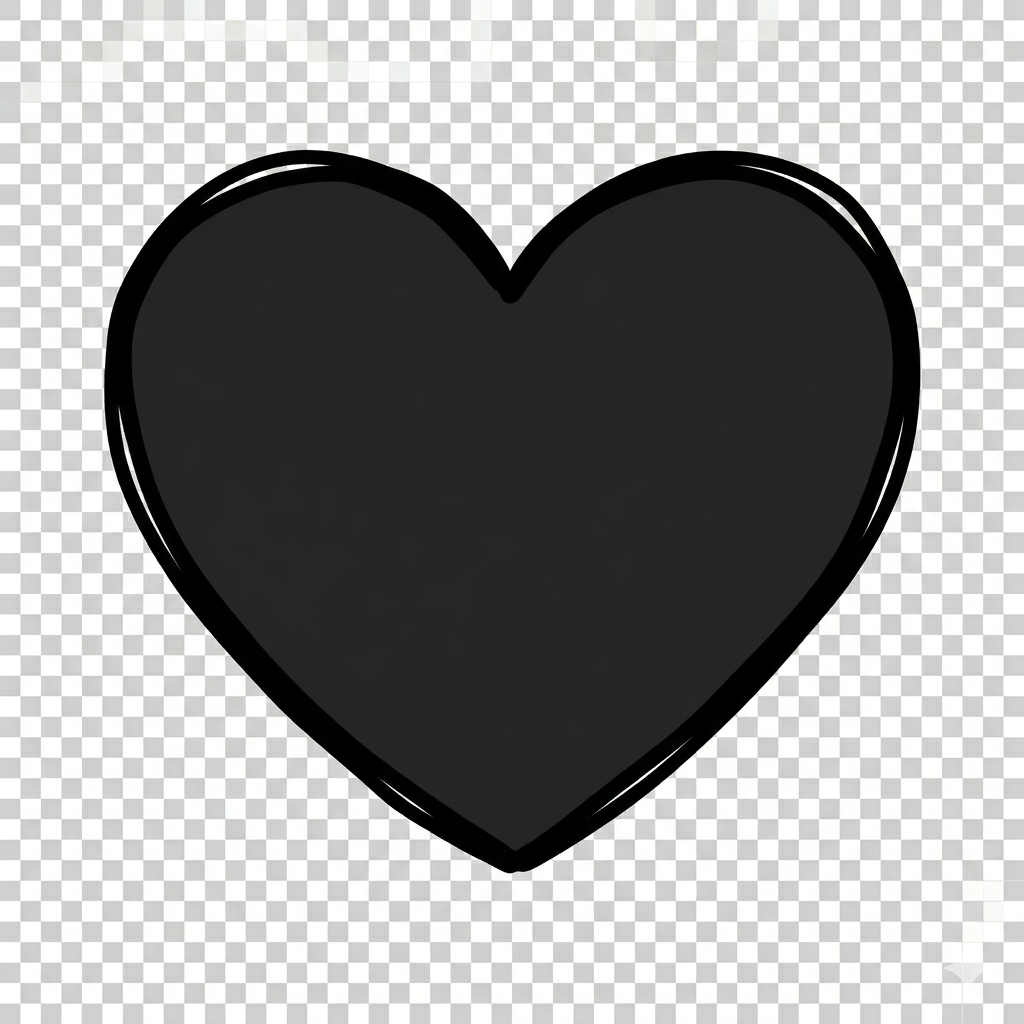
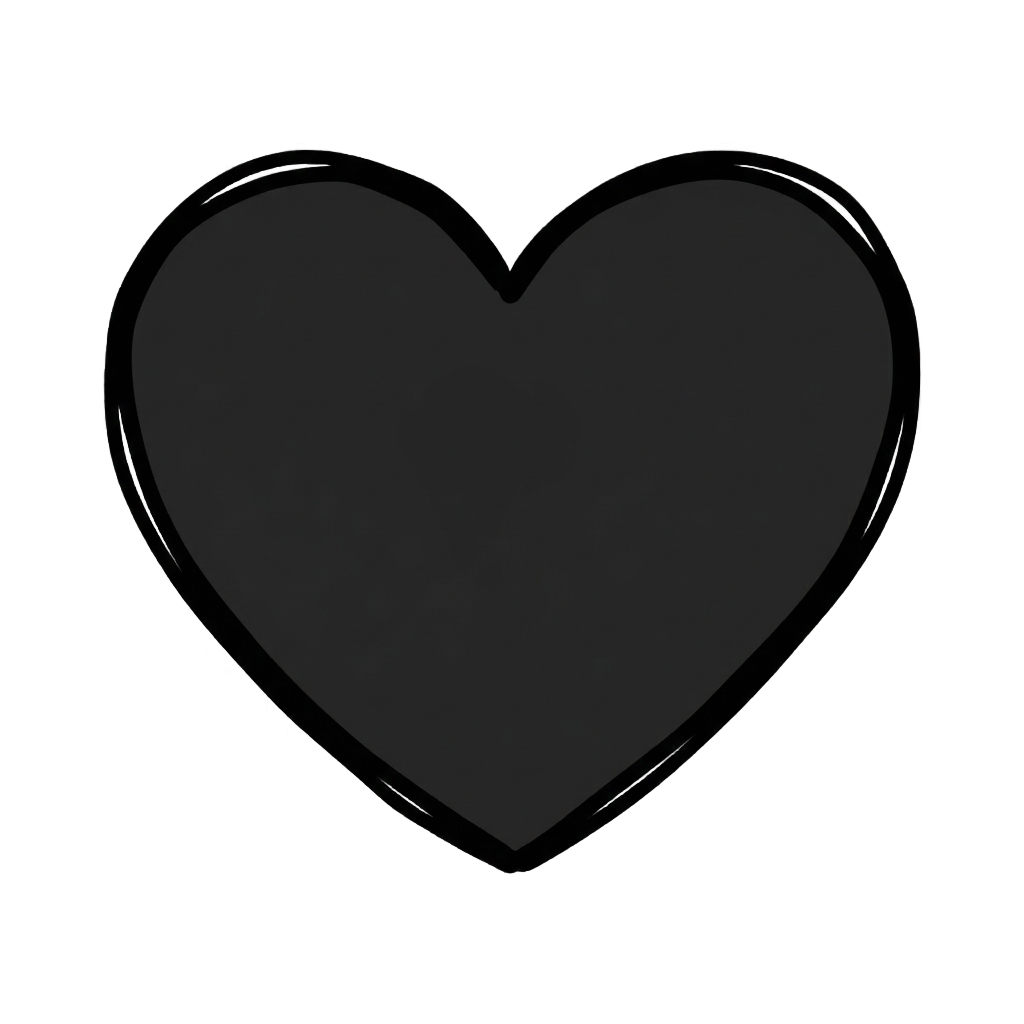
Update: Realigning the assets, Assets: Removing bg

Changed region(s): [[0.0, 0.0, 1.0, 1.0]]

diff --git a/HangmanProject/gui.py b/HangmanProject/gui.py
@@ -107,7 +107,7 @@ class SpriteLoader:
 
     # ── Keyboard images ───────────────────────────────────────────────────────
     def _load_keyboard(self):
-        kb_w = CW - 20
+        kb_w = CW - 200
         for key, fname in [("kb_normal", "keyboard_normal.png"),
                             ("kb_used",   "keyboard_key_used.png")]:
             path = os.path.join(self.assets_dir, fname)
@@ -116,7 +116,13 @@ class SpriteLoader:
                 ow, oh = img.size
                 ratio  = kb_w / ow
                 kb_h   = int(oh * ratio)
-                self.buttons[key] = img.resize((kb_w, kb_h), Image.LANCZOS)
+                img    = img.resize((kb_w, kb_h), Image.LANCZOS)
+
+                # ── Fix: composite onto transparent base to kill checkerboard ──
+                base = Image.new("RGBA", (kb_w, kb_h), (0, 0, 0, 0))
+                img  = Image.alpha_composite(base, img)
+
+                self.buttons[key] = img
             except Exception:
                 self.buttons[key] = None
 
@@ -201,13 +207,13 @@ class HangmanApp:
             canvas.create_image(400, 110, anchor=tk.CENTER, image=title)
             self._photo_refs.append(title)
         else:
-            canvas.create_text(400, 110, text="REGULAR HANGMAN",
+            canvas.create_text(400, 110, text="REGULAR GAME",
                                font=self.title_font, fill=BASE_TEXT)
 
         btn_data = [
             ("New_Game",          300, lambda: self._start_game(self.difficulty)),
             ("Change_Difficulty", 390, self._show_difficulty_screen),
-            ("Exit_Game",         500, self.master.quit),
+            ("Exit_Game",         490, self.master.quit),
         ]
         for key, y, cmd in btn_data:
             photo = self.loader.get_button(key, width=280)
@@ -315,7 +321,7 @@ class HangmanApp:
         CHAR_Y     = KB_Y - TARGET_SIZES[self.difficulty][1] + 20
         HEART_Y    = 12
         WORD_Y     = 90
-        RIGHT_X    = TARGET_SIZES[self.difficulty][0] + 20
+        RIGHT_X    = 510
         FEEDBACK_Y = WORD_Y + 110
 
         # ── Character sprite (left side) ──────────────────────────────────────
@@ -396,13 +402,39 @@ class HangmanApp:
     # ── Word letter boxes ─────────────────────────────────────────────────────
     def _build_word_display(self, start_x: int, y: int, theme: dict):
         word         = self.game.word
-        box_w, box_h = 44, 50
-        gap          = 6
-        total_w      = len(word) * (box_w + gap) - gap
-        panel_w      = CW - start_x
-        ox           = start_x + (panel_w - total_w) // 2
+        panel_w      = CW - start_x - 10
 
-        self._letter_boxes = []
+        # Scale box size down for longer words so they always fit
+        if len(word) <= 5:
+            box_w, box_h = 44, 50
+            gap          = 6
+        elif len(word) <= 8:
+            box_w, box_h = 36, 44
+            gap          = 5
+        elif len(word) <= 12:
+            box_w, box_h = 28, 36
+            gap          = 4
+        else:
+            box_w, box_h = 22, 30
+            gap          = 3
+
+        total_w = len(word) * (box_w + gap) - gap
+
+        # If still too wide, force fit
+        if total_w > panel_w:
+            box_w = (panel_w - (len(word) - 1) * gap) // len(word)
+            box_h = int(box_w * 1.1)
+            total_w = len(word) * (box_w + gap) - gap
+
+        # Center in right panel
+        ox = start_x + (panel_w - total_w) // 2
+
+        self._letter_boxes  = []
+        self._box_font = tkfont.Font(
+            family="Courier New",
+            size=max(8, box_h // 3),
+            weight="bold")
+
         for i, letter in enumerate(word):
             x0 = ox + i * (box_w + gap)
             x1 = x0 + box_w
@@ -413,12 +445,12 @@ class HangmanApp:
                 fill="#1a1a2e", outline=theme["accent"], width=2)
             txt = self.canvas.create_text(
                 (x0 + x1) // 2, (y0 + y1) // 2,
-                text="", font=self.word_font, fill=theme["accent"])
+                text="", font=self._box_font,
+                fill=theme["accent"])
             self._letter_boxes.append((rect, txt, letter))
-
     # ── Keyboard ──────────────────────────────────────────────────────────────
     def _build_keyboard(self, kb_y: int, theme: dict):
-        kb_x = 10
+        kb_x = (CW - self.loader.kb_size[0]) // 2
         if self.loader.kb_photo:
             self.canvas.create_image(kb_x, kb_y, anchor=tk.NW,
                                      image=self.loader.kb_photo)
@@ -427,11 +459,17 @@ class HangmanApp:
         kw, kh     = self.loader.kb_size
         rows       = QWERTY
         max_keys   = max(len(r) for r in rows)
-        key_w      = kw / max_keys
-        key_h      = kh / len(rows)
+
+        # Each key is square — calculate from image width / max keys in a row
+        key_w = kw / max_keys
+        key_h = kh / len(rows)
+
+        # QWERTY row indent — row 2 indented 0.5 key, row 3 indented 1.5 keys
         row_offsets = [0, key_w * 0.5, key_w * 1.5]
 
         self._key_regions: dict[str, tuple] = {}
+        self._kb_x = kb_x  # store kb_x so overlay uses same origin
+
         for ri, row in enumerate(rows):
             for ci, letter in enumerate(row):
                 rx0 = kb_x + row_offsets[ri] + ci * key_w
@@ -609,26 +647,59 @@ class HangmanApp:
 
     def _show_play_again(self):
         theme = THEME[self.difficulty]
-        again_tag = "again_btn"
-        menu_tag  = "end_menu_btn"
 
+        # Semi-transparent dark overlay over whole canvas
         self.canvas.create_rectangle(
-            CW//2 - 130, CH - 50, CW//2 - 10, CH - 20,
+            0, 0, CW, CH,
+            fill="#000000", stipple="gray50", outline="")
+
+        # Popup box — dead center
+        pw, ph = 400, 200
+        px = (CW - pw) // 2
+        py = (CH - ph) // 2
+
+        # Popup background
+        self.canvas.create_rectangle(
+            px, py, px + pw, py + ph,
+            fill="#1a1a2e", outline=theme["accent"], width=3)
+
+        # Status message already shown via feedback — add word reveal
+        status = self.game.get_status()
+        msg    = "🎉 YOU WIN!" if status == "win" else "💀 GAME OVER"
+        color  = "#4ade80"    if status == "win" else "#f87171"
+
+        self.canvas.create_text(
+            CW // 2, py + 45,
+            text=msg, font=self.title_font,
+            fill=color, anchor=tk.CENTER)
+
+        self.canvas.create_text(
+            CW // 2, py + 85,
+            text=f"Word: {self.game.word}",
+            font=self.body_font, fill=BASE_TEXT,
+            anchor=tk.CENTER)
+
+        # Play Again button
+        again_tag = "again_btn"
+        self.canvas.create_rectangle(
+            px + 20, py + 130, px + 175, py + 170,
             fill=theme["btn"], outline="")
         self.canvas.create_text(
-            CW//2 - 70, CH - 35,
+            px + 97, py + 150,
             text="▶ Play Again", font=self.body_font,
-            fill="#fff", tags=(again_tag,))
+            fill="#fff", tags=(again_tag,), anchor=tk.CENTER)
         self.canvas.tag_bind(again_tag, "<Button-1>",
                              lambda e: self._start_game(self.difficulty))
 
+        # Menu button
+        menu_tag = "end_menu_btn"
         self.canvas.create_rectangle(
-            CW//2 + 10, CH - 50, CW//2 + 130, CH - 20,
+            px + 225, py + 130, px + 380, py + 170,
             fill="#333", outline="")
         self.canvas.create_text(
-            CW//2 + 70, CH - 35,
+            px + 302, py + 150,
             text="↩ Menu", font=self.body_font,
-            fill="#ccc", tags=(menu_tag,))
+            fill="#ccc", tags=(menu_tag,), anchor=tk.CENTER)
         self.canvas.tag_bind(menu_tag, "<Button-1>",
                              lambda e: self._show_main_menu())
 
